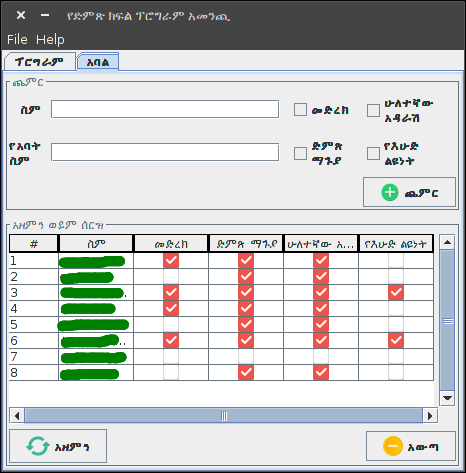
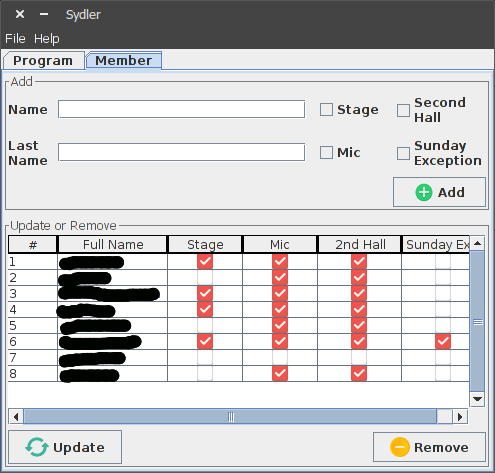
fixed grammar in the README file and changed the screenshots

Changed region(s): [[0.0, 0.0, 1.0, 1.0], [0.6309, 0.296, 0.7511, 0.3552]]

diff --git a/README.md b/README.md
@@ -1,5 +1,5 @@
 # Sydler
-This java program is intended to help the brothers who work on the sound system of a JW congregation generate efficient
+This Java program is intended to help the brothers who work on the sound system of a JW congregation generate efficient
 timely schedules. It saves the schedule in a formatted excel document.
 
 |   |   |
